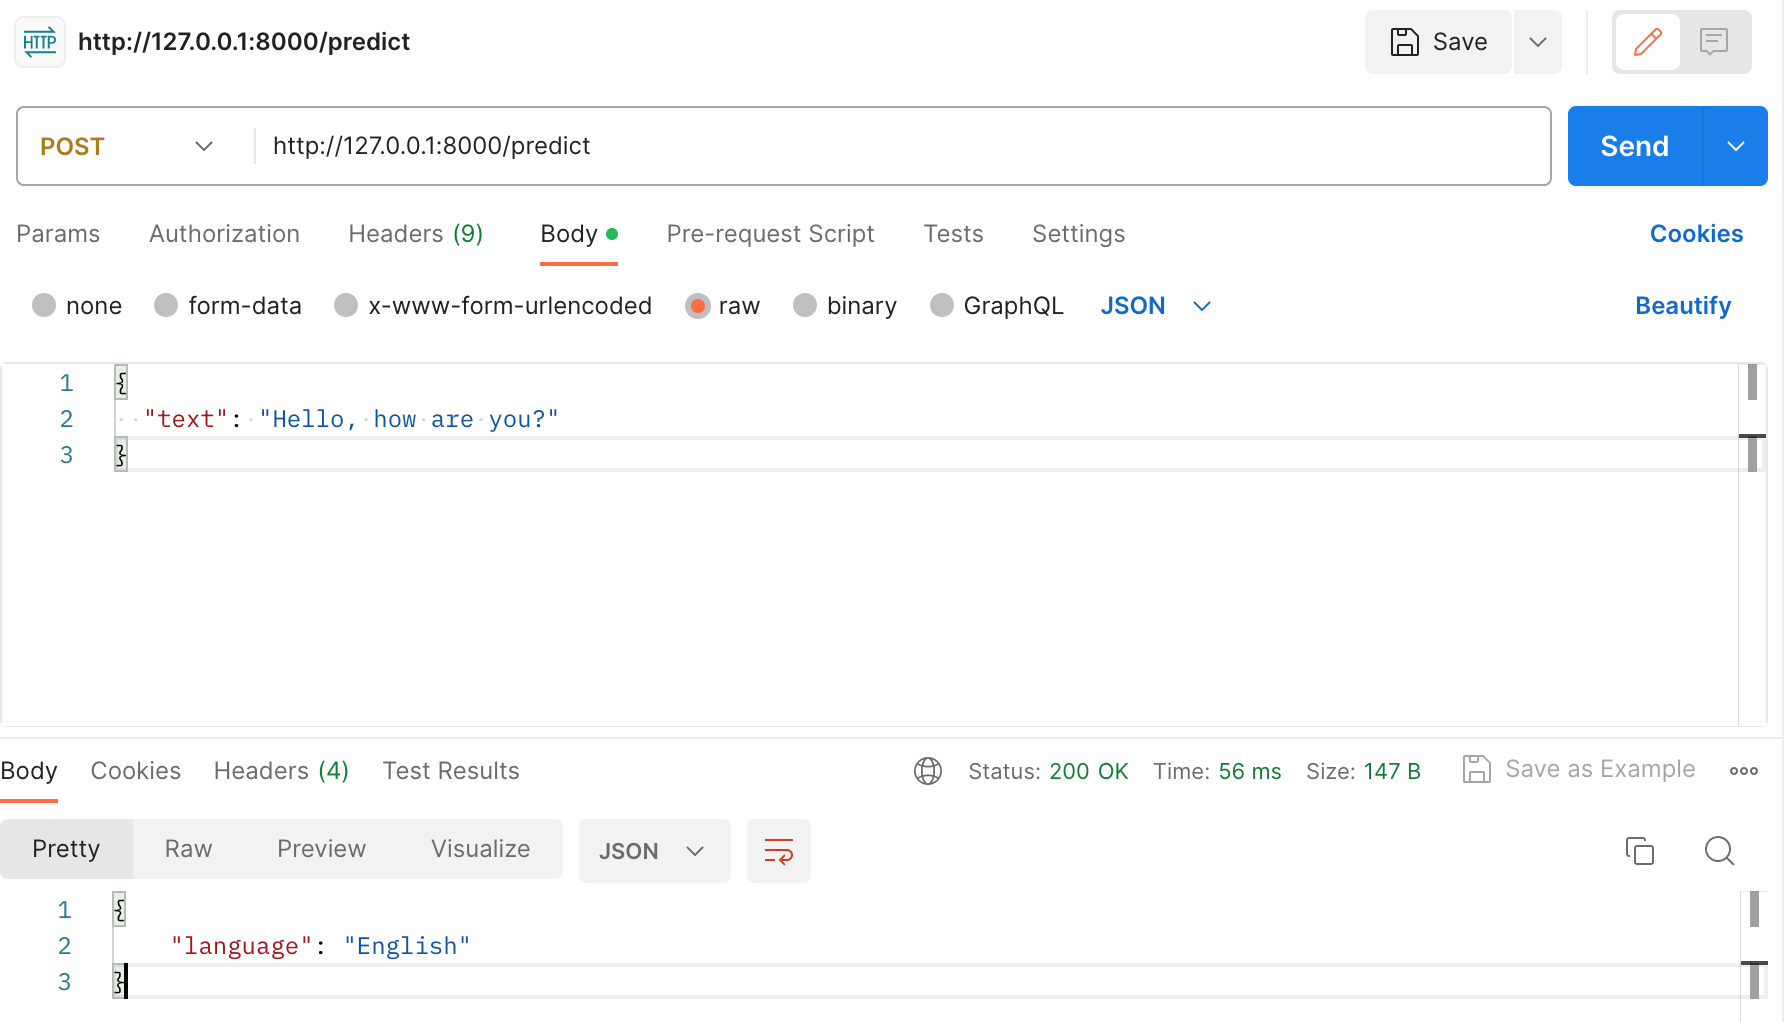
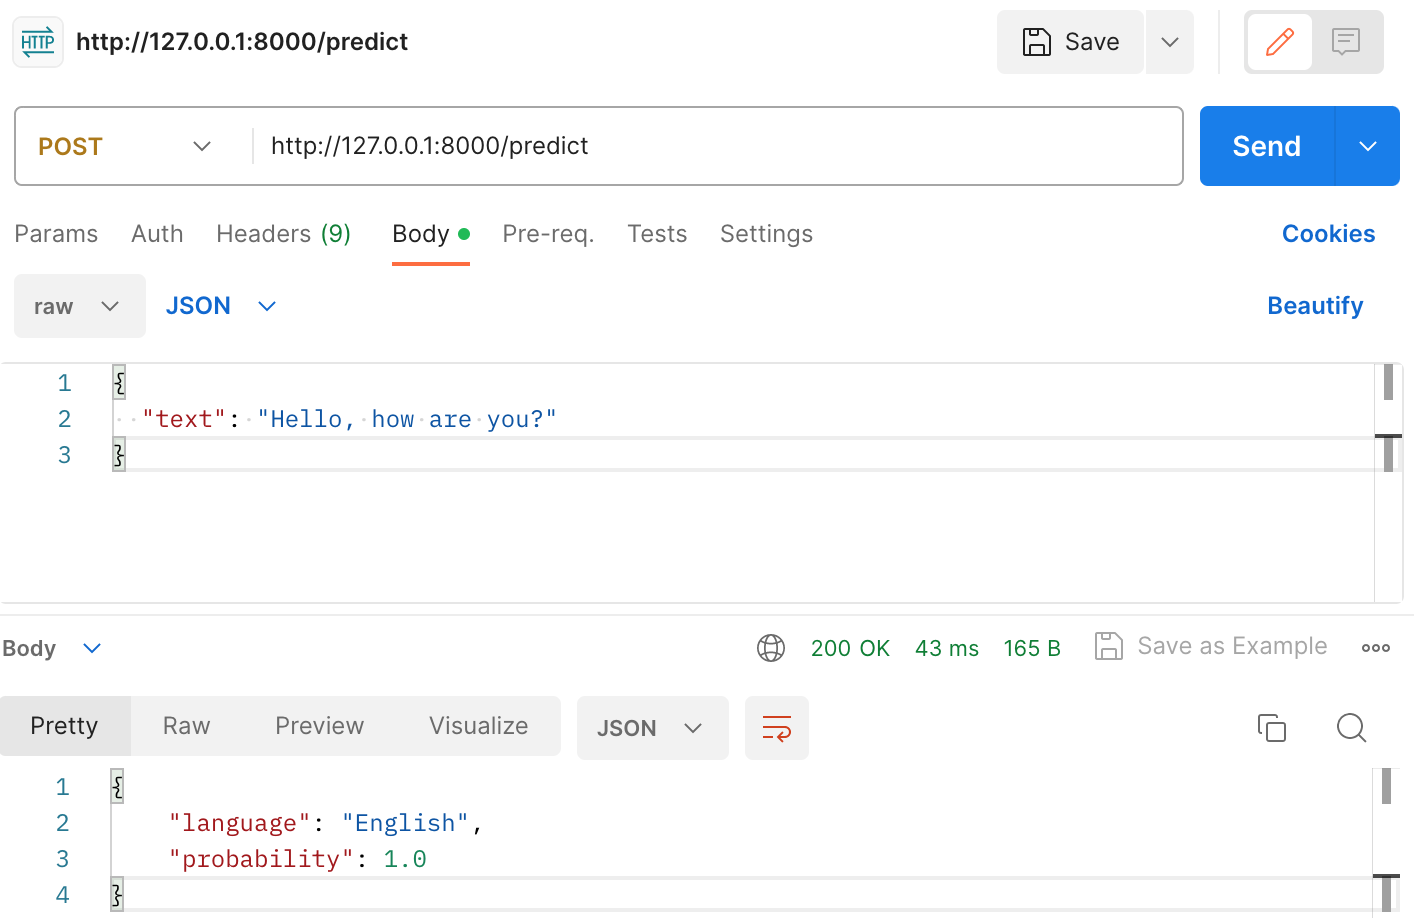
add probability to the output

diff --git a/app/model/model.py b/app/model/model.py
@@ -1,6 +1,7 @@
 import pickle
 import re
 from pathlib import Path
+from typing import Tuple
 
 __version__ = "0.1.0"
 
@@ -44,10 +45,15 @@ def preprocess_text(text: str) -> str:
     return text
 
 
-def predict_pipeline(text: str) -> str:
+def predict_pipeline(text: str) -> Tuple[str, float]:
     """
     Predict the language for the given text
     """
     text = preprocess_text(text)
     pred = model.predict([text])
-    return classes[pred[0]]
+    prob = round(model.predict_proba([text])[0][pred[0]], 2)
+    return classes[pred[0]], prob
+
+
+if __name__ == '__main__':
+    print(predict_pipeline('hello, my name is charles. I would like to chat with you!'))

diff --git a/app/main.py b/app/main.py
@@ -12,6 +12,7 @@ class TextIn(BaseModel):
 
 class PredictionOut(BaseModel):
     language: str
+    probability: float
 
 
 @app.get("/")
@@ -21,5 +22,5 @@ def home():
 
 @app.post("/predict", response_model=PredictionOut)
 def predict(payload: TextIn):
-    language = predict_pipeline(payload.text)
-    return {"language": language}
+    language, prob = predict_pipeline(payload.text)
+    return {"language": language, "probability": prob}

diff --git a/README.md b/README.md
@@ -126,6 +126,10 @@ Check container id:
 ```bash
 docker ps 
 ```
+Stop the docker container
+```bash
+docker stop {container_id}
+```
 
 Remove the container: 
 ```bash
